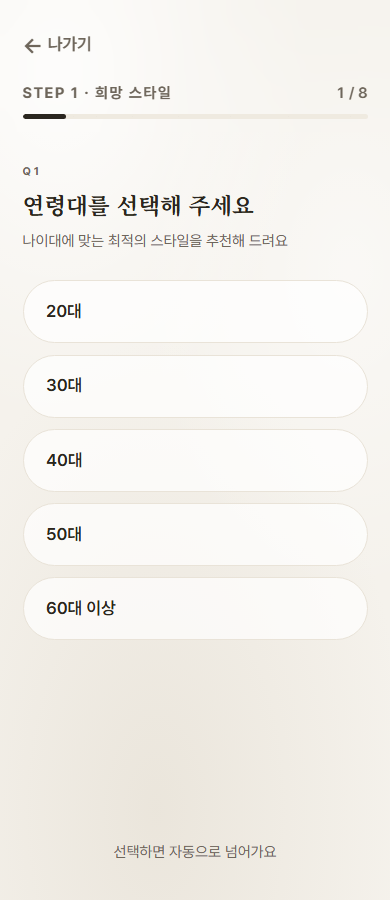
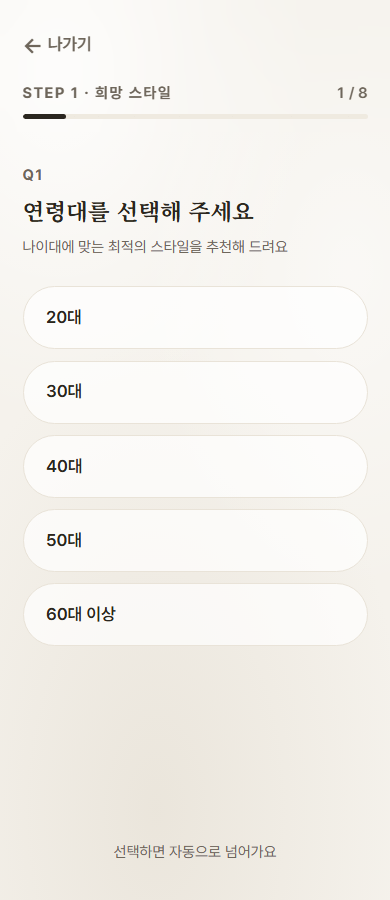
fix(ui-redesign): Codex 그룹C 반영 — 문항번호15·damage 결과 헤더 터치
- 설문 q.no 11~12→15(style·damage 공통).
- damage 결과지 헤더 '다시 하기'·'공유' 터치 min-h-14.
- (b) "← 나가기"의 ←는 P7 강제 아이콘(aria-hidden), 텍스트 '나가기'는 불변 → 유지.
- 로직·동의·법적문구·제품데이터·계측 무변경. tsc 0.

diff --git a/app/damage-check/result/page.tsx b/app/damage-check/result/page.tsx
@@ -248,12 +248,12 @@ export default function DamageCheckResultPage() {
 
       {/* ── 헤더 ── */}
       <header className="sticky top-0 z-20 flex items-center justify-between bg-bg/85 px-5 py-3.5 backdrop-blur-md">
-        <Link href="/damage-check/survey" className="text-[15px] font-medium text-sub transition-colors hover:text-ink">
+        <Link href="/damage-check/survey" className="-ml-1 flex min-h-14 items-center px-1 text-[15px] font-medium text-sub transition-colors hover:text-ink">
           ← 다시 하기
         </Link>
         <span className="text-[15px] font-bold uppercase tracking-[0.12em] text-sub">진단 결과지</span>
         {/* 🟡-01 어포던스: 텍스트만이던 헤더 공유를 옅은 테두리 pill로 — 누를 수 있음을 명확히. */}
-        <button onClick={handleKakaoShare} className="rounded-full border border-line px-4 py-2 text-[15px] font-medium text-sub transition-colors hover:bg-surface hover:text-ink active:scale-[0.98]">
+        <button onClick={handleKakaoShare} className="inline-flex min-h-14 items-center rounded-full border border-line px-4 text-[15px] font-medium text-sub transition-colors hover:bg-surface hover:text-ink active:scale-[0.98]">
           {kakaoSent ? "전송됨 ✓" : "공유"}
         </button>
       </header>

diff --git a/app/damage-check/survey/page.tsx b/app/damage-check/survey/page.tsx
@@ -250,7 +250,7 @@ export default function DamageCheckSurveyPage() {
               className="flex min-h-full flex-col justify-center pt-6 pb-10"
             >
               <div className="mb-6">
-                <p className="mb-1.5 text-[12px] font-bold uppercase tracking-[0.18em] text-ink-2">{q.no}</p>
+                <p className="mb-1.5 text-[15px] font-bold uppercase tracking-[0.1em] text-ink-2">{q.no}</p>
                 <h2 className="font-serif text-xl font-bold leading-snug text-ink whitespace-pre-line">{q.title}</h2>
                 {q.hint && <p className="mt-2 text-[15px] leading-relaxed text-ink-2">{q.hint}</p>}
               </div>

diff --git a/app/style/survey/page.tsx b/app/style/survey/page.tsx
@@ -283,7 +283,7 @@ export default function StyleSurveyPage() {
               className="flex flex-1 flex-col py-7"
             >
               <div className="mb-6">
-                <p className="mb-2 text-[11px] font-bold uppercase tracking-[0.28em] text-ink-2">
+                <p className="mb-2 text-[15px] font-bold uppercase tracking-[0.1em] text-ink-2">
                   {q.no}
                 </p>
                 <h2 className="font-serif text-xl font-bold leading-snug text-ink sm:text-2xl">
